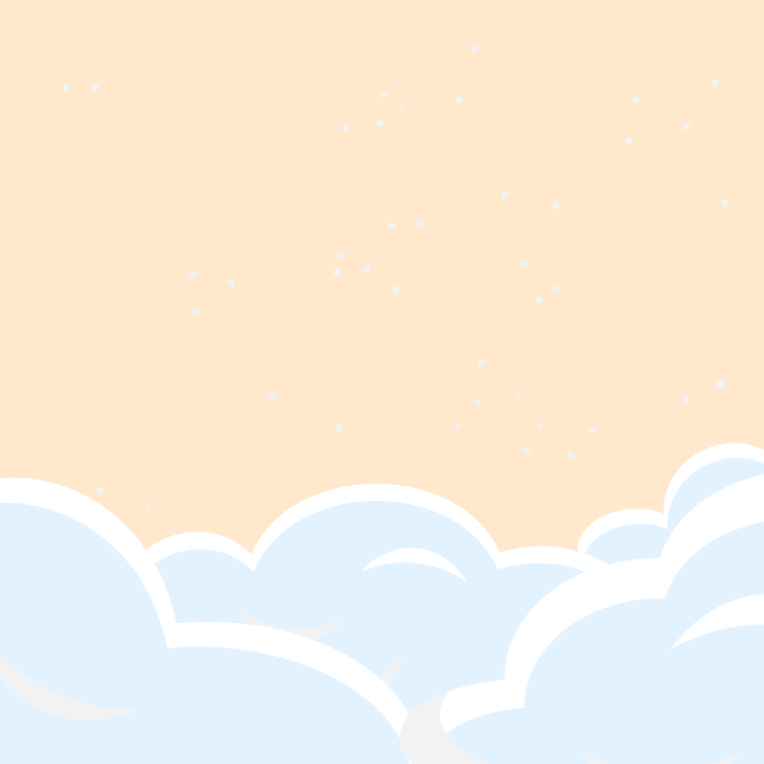
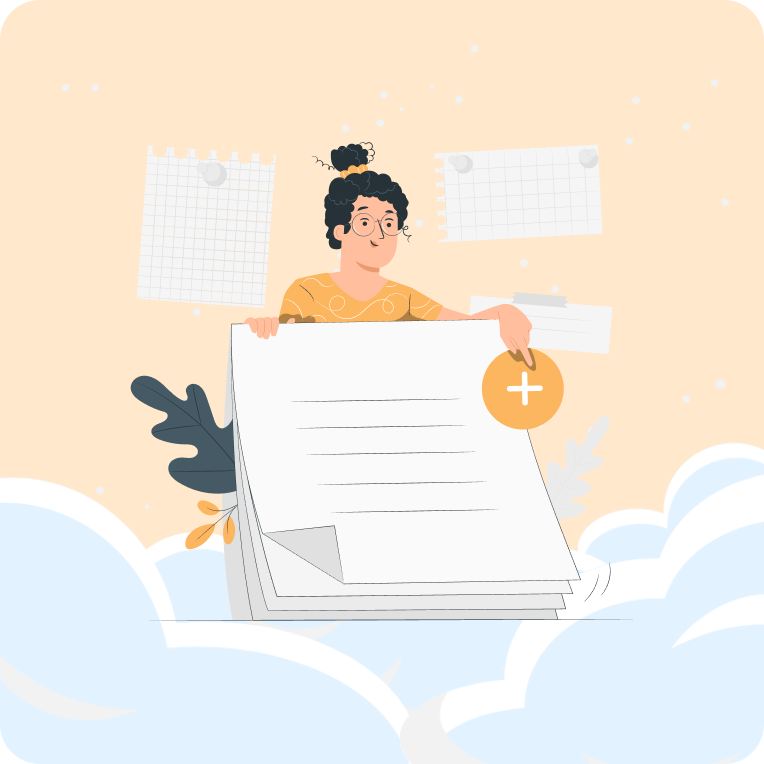
edit

diff --git a/resources/views/layouts/app.blade.php b/resources/views/layouts/app.blade.php
@@ -15,11 +15,12 @@
 
 <body>
 
-<div class="m-24">
+<div class="m-24 rounded-lg">
     <div id="app" class="flex">
         
         <div class="w-1/2">
-            <img class="bg-contain" src="https://raw.githubusercontent.com/LynnArsa/my-notes/main/public/Simple%20BG.png">
+            <img class="bg-contain absolute h-[500px] flex items-center justify-center" src="https://raw.githubusercontent.com/LynnArsa/my-notes/main/public/Login.png">
+            <img class="bg-contain rounded-3xl" src="https://raw.githubusercontent.com/LynnArsa/my-notes/main/public/Simple%20BG.png">
         </div>
         <div class="w-1/2 p-24">
             <h1 class="font-bold text-4xl text-center">My <span class="text-secondary">Notes</span></h1>
